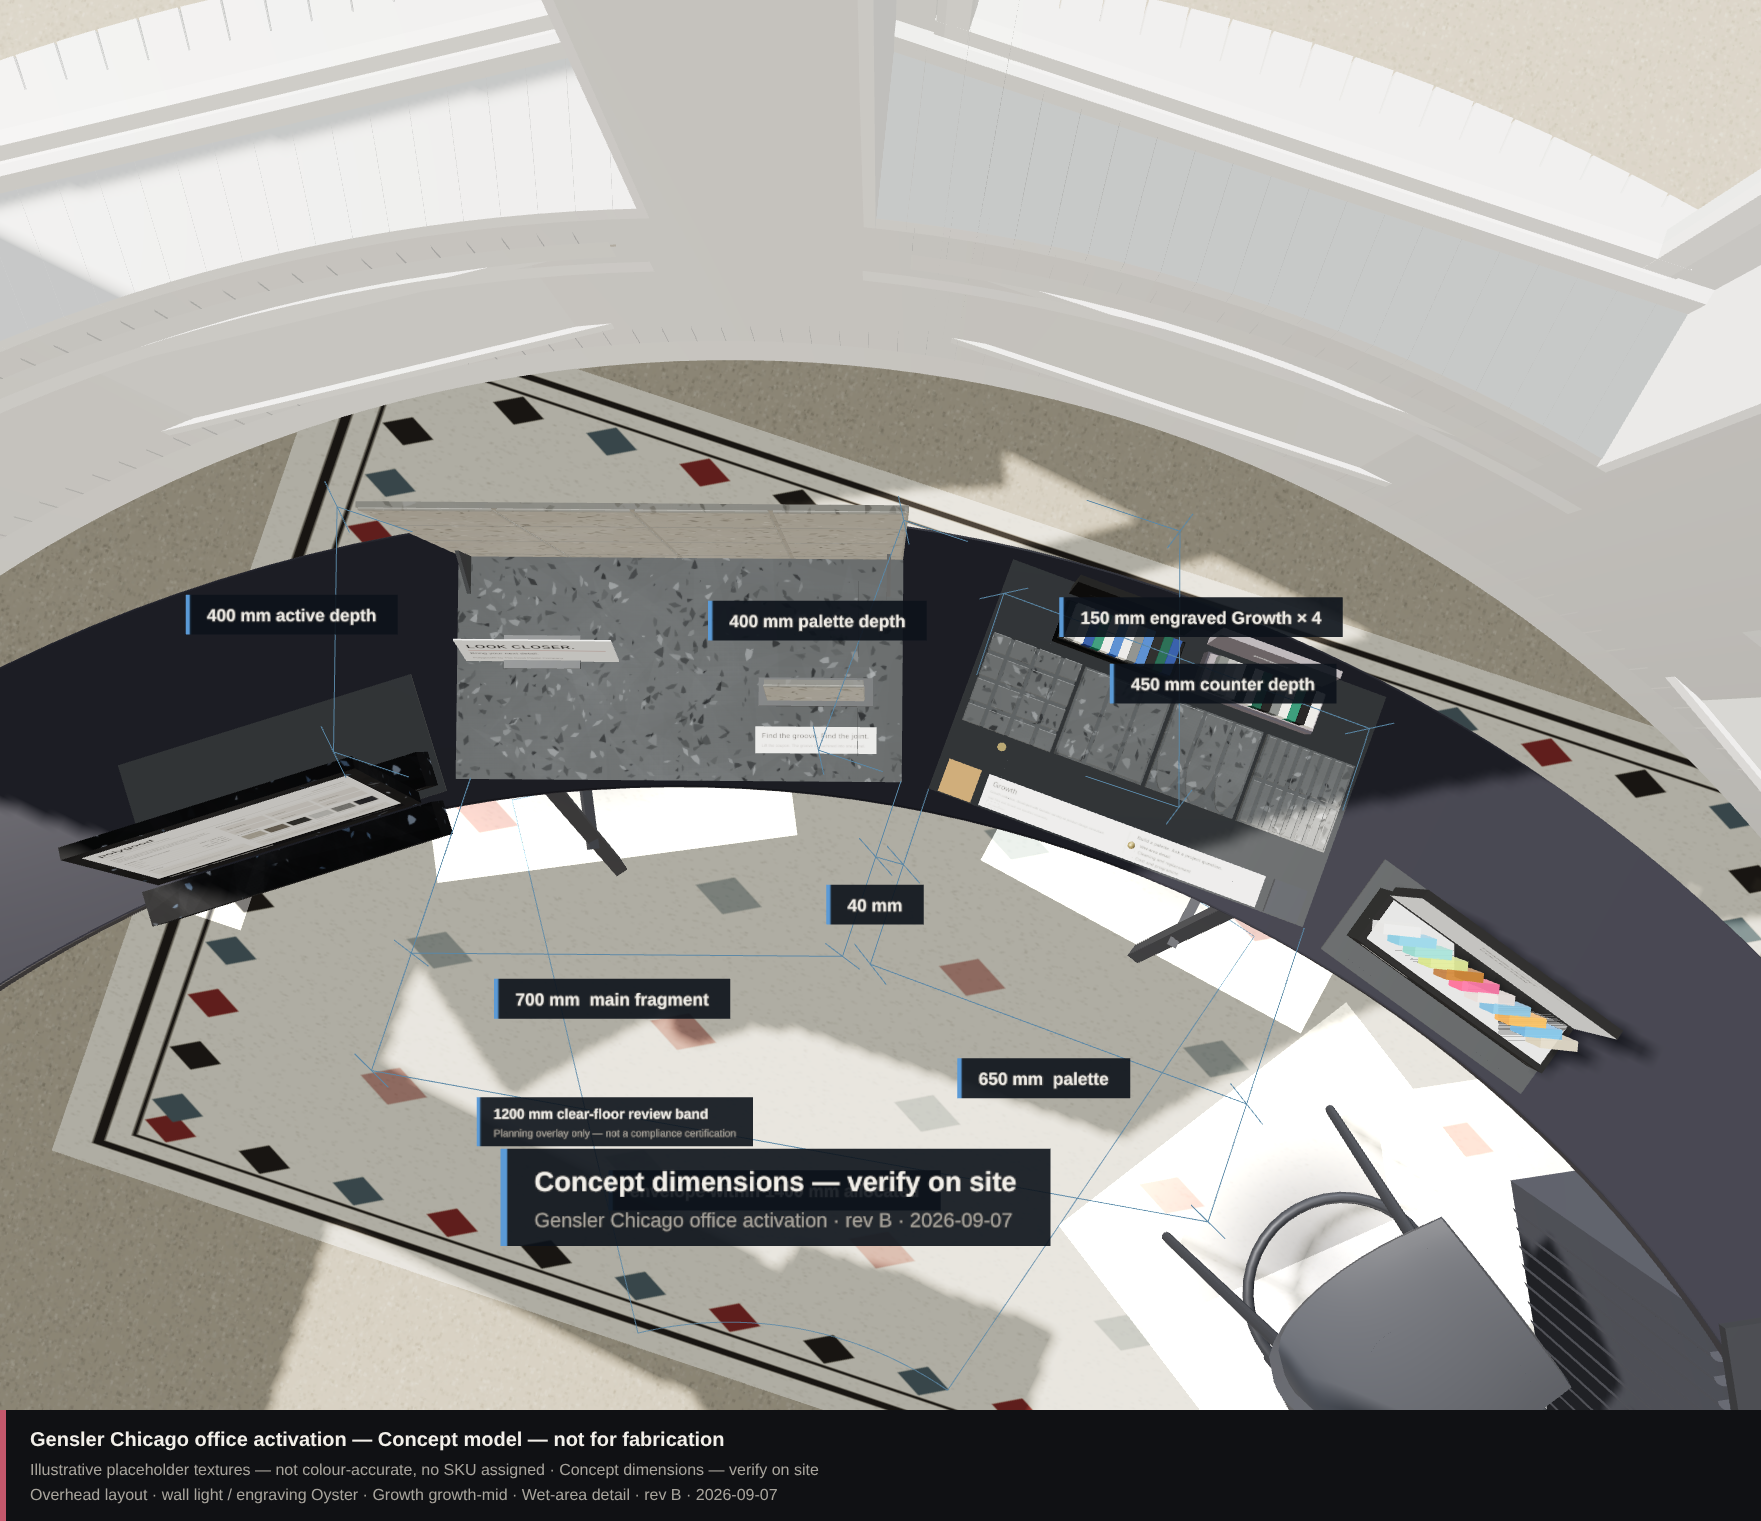
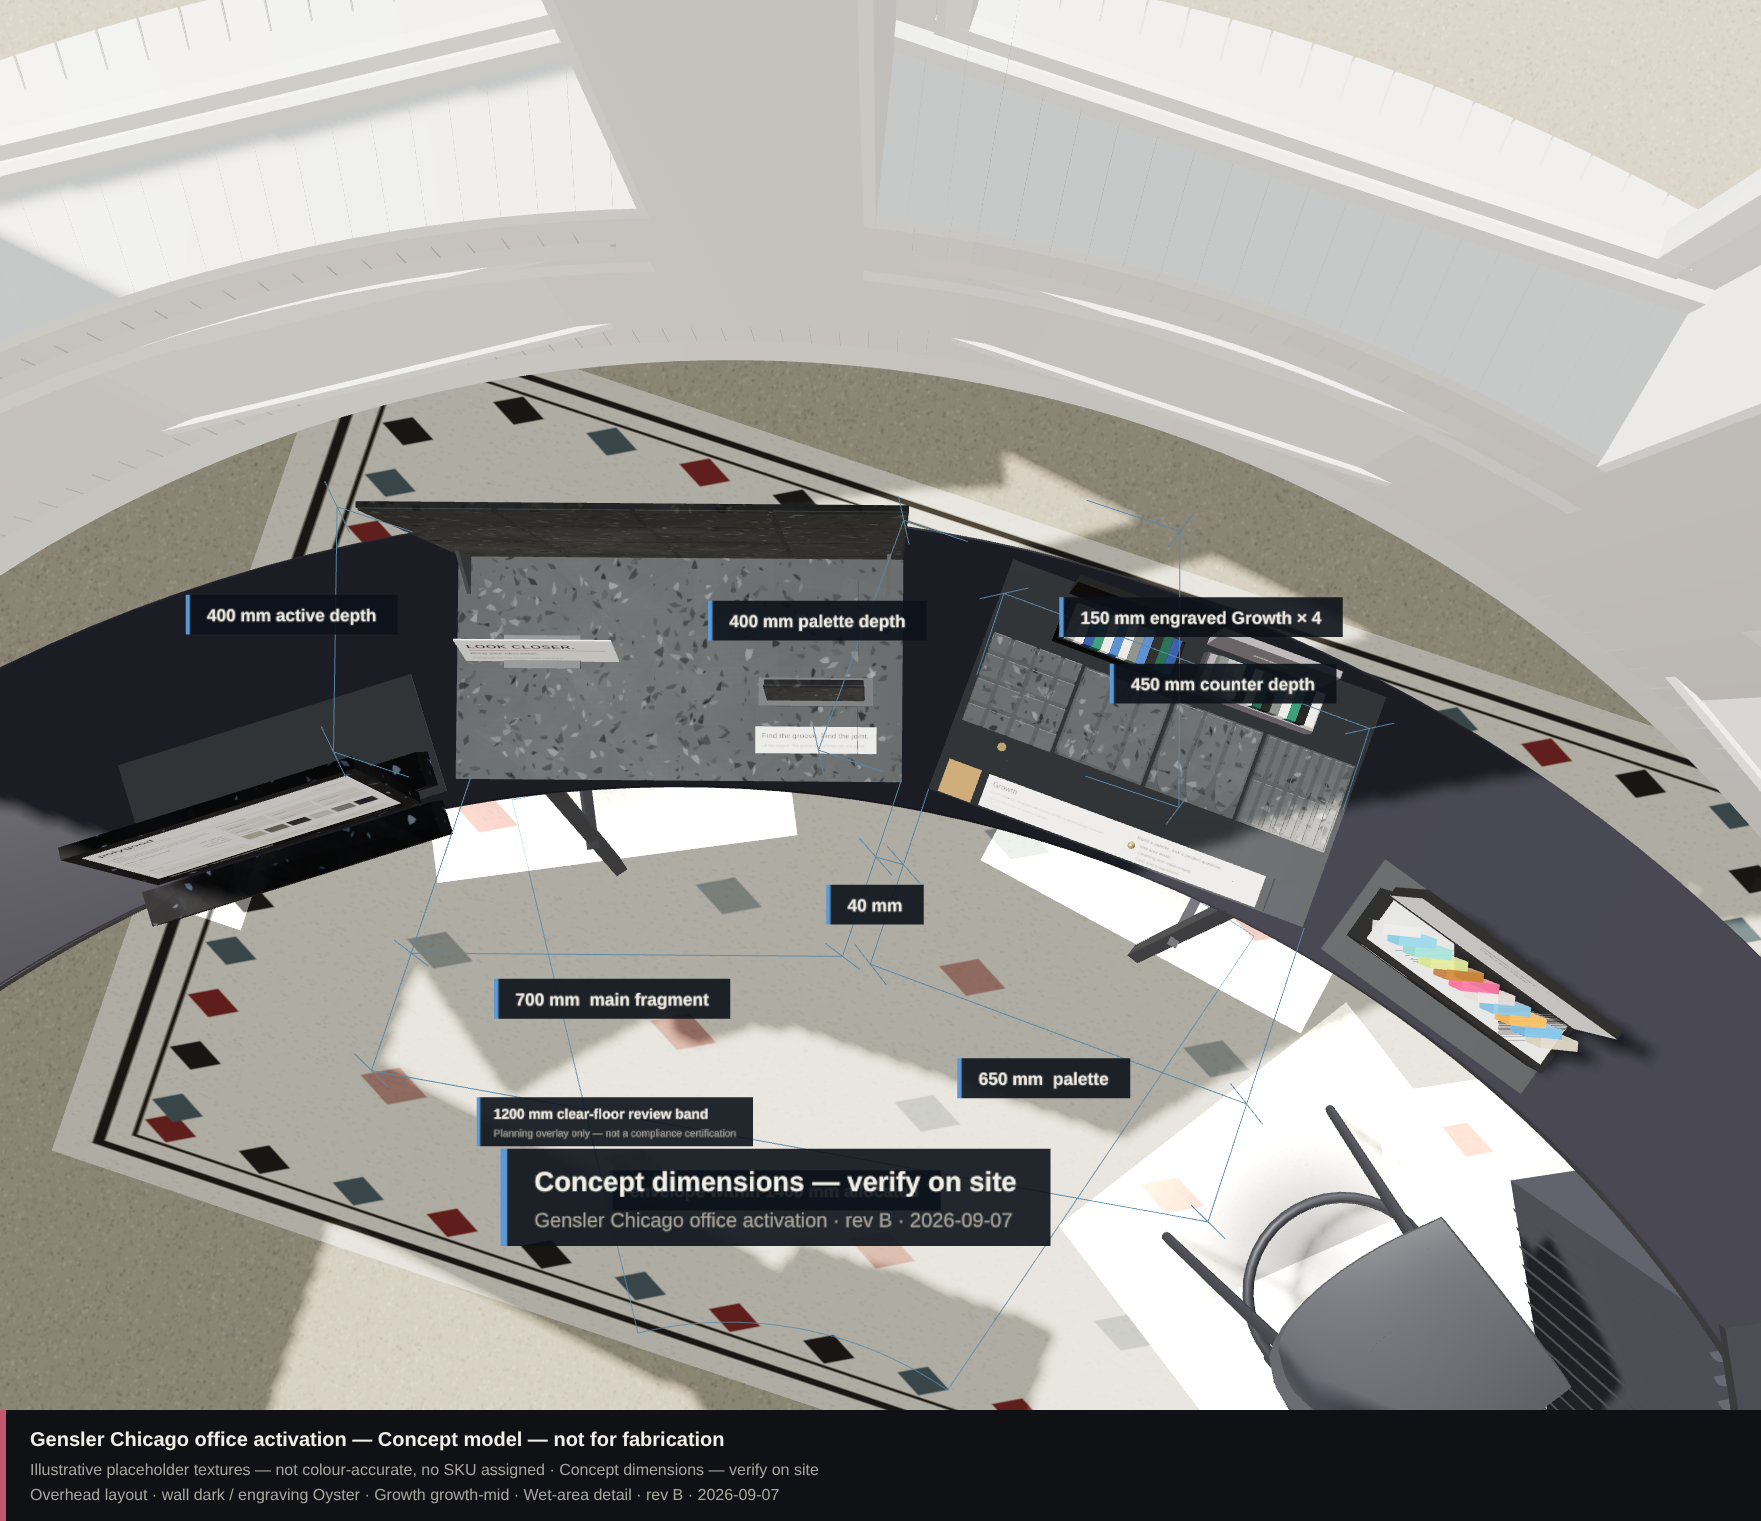
Open on the dark tile, and make the opening choice configurable
The tile controls are unchanged and stay unchanged: wall tile, wall engraving
and Growth surface remain three independent selectors, every entry in
wallColours / engravings / growthSurfaces is still a button, and picking one
still re-materialises the panel and the coupon live. There is still no "match
the wall" shortcut, because same-pattern availability is not confirmed. The
orientation stand's own surface stays in its own list (standSurfaces) so it
does not turn up among the tile choices.

What changed is only which choice is selected when the model opens.

- config.js: a `defaults` block — wall, growth, engraving, question and view.
  It opens on the dark tile and the room-approach vantage. null falls back to
  the first entry in the list; an id that no longer exists falls back the same
  way rather than failing.
- installation.js: the opening selection is read through startId() instead of
  being hard-coded to list[0].
- app.js: the opening vantage is looked up by key, defaulting to the first.

One fix alongside it: the question marker was placed at index 0 on load rather
than from state, so it would have pointed at the wrong question the moment the
opening question was not the first one. It now follows state.

Stills regenerated on the new default; README documents both the tile controls
and the defaults block.

Claude-Session: https://claude.ai/code/session_01RrtzjYnURxMGb191qk9yjN

Changed region(s): [[0.1874, 0.309, 0.5309, 0.3708], [0.1249, 0.9579, 0.4373, 0.9888], [0.4373, 0.4326, 0.4997, 0.4635]]

diff --git a/spaces/gensler-chicago-activation/dist/index.html b/spaces/gensler-chicago-activation/dist/index.html
@@ -374,6 +374,20 @@ window.PG_CONFIG = {
 
      A groove is machined into ONE continuous panel. These are engravings, not
      an assembly of loose tiles, and not grout.                              */
+  /* ── what the model OPENS on ───────────────────────────────────────────
+     This sets the STARTING selection only. Every wall tile, every Growth
+     surface and every engraving below stays selectable in the panel — the
+     three choices remain independent, and nothing here removes a control.
+     Set any of these to null to fall back to the first entry in its list. */
+  defaults: {
+    wall:      'dark',          // wallColours id — the dark tile
+    growth:    'growth-light',  // growthSurfaces id
+    engraving: null,            // engravings id
+    question:  null,            // questions id
+    view:      'approach'       // vantage key: approach | eye | detail | overhead |
+                                // palette | translucent | orientation | logistics
+  },
+
   engravingReferenceSheet: 300,   // assumed sheet size the proportions came from
   engravings: [
     { id: 'oyster',     name: 'Oyster',     ref: '01', shape: 'rect',    cellW: 43,   cellH: 43  },
@@ -2404,11 +2418,17 @@ var transBox = (function () {
    Wall colour, wall engraving and Growth surface are three INDEPENDENT
    choices. There is deliberately no "match the wall" control: same-pattern
    availability is not confirmed.                                            */
+var DEF = CFG.defaults || {};
+/* the opening selection only — every entry in every list stays selectable */
+function startId(list, wanted) {
+  var hit = list.find(function (x) { return x.id === wanted; });
+  return (hit || list[0]).id;
+}
 var state = {
-  wall: CFG.wallColours[0].id,
-  engraving: CFG.engravings[0].id,
-  growth: CFG.growthSurfaces[0].id,
-  question: CFG.questions[0].id
+  wall: startId(CFG.wallColours, DEF.wall),
+  engraving: startId(CFG.engravings, DEF.engraving),
+  growth: startId(CFG.growthSurfaces, DEF.growth),
+  question: startId(CFG.questions, DEF.question)
 };
 
 function setWall(id) {
@@ -2436,7 +2456,9 @@ function setQuestion(id) {
   setQuestionMarker(CFG.questions.findIndex(function (q) { return q.id === id; }));
   ctx.invalidate();
 }
-setWall(state.wall); setGrowth(state.growth); setEngraving(state.engraving); setQuestionMarker(0);
+/* the marker followed index 0 rather than the state, which only matched
+   while the opening question was the first one */
+setWall(state.wall); setGrowth(state.growth); setEngraving(state.engraving); setQuestion(state.question);
 
 /* ── inspect: only the coupon moves ───────────────────────────────────── */
 var inspectT = 0;
@@ -3339,7 +3361,8 @@ fitStage();
 
 applyFurniture();
 setLight('soft');
-goView(0, true);
+var startView = VIEWS.findIndex(function (v) { return v.key === (CFG.defaults || {}).view; });
+goView(startView < 0 ? 0 : startView, true);
 refreshStatus();
 refreshRecordLine();
 

diff --git a/spaces/gensler-chicago-activation/installation.js b/spaces/gensler-chicago-activation/installation.js
@@ -773,11 +773,17 @@ var transBox = (function () {
    Wall colour, wall engraving and Growth surface are three INDEPENDENT
    choices. There is deliberately no "match the wall" control: same-pattern
    availability is not confirmed.                                            */
+var DEF = CFG.defaults || {};
+/* the opening selection only — every entry in every list stays selectable */
+function startId(list, wanted) {
+  var hit = list.find(function (x) { return x.id === wanted; });
+  return (hit || list[0]).id;
+}
 var state = {
-  wall: CFG.wallColours[0].id,
-  engraving: CFG.engravings[0].id,
-  growth: CFG.growthSurfaces[0].id,
-  question: CFG.questions[0].id
+  wall: startId(CFG.wallColours, DEF.wall),
+  engraving: startId(CFG.engravings, DEF.engraving),
+  growth: startId(CFG.growthSurfaces, DEF.growth),
+  question: startId(CFG.questions, DEF.question)
 };
 
 function setWall(id) {
@@ -805,7 +811,9 @@ function setQuestion(id) {
   setQuestionMarker(CFG.questions.findIndex(function (q) { return q.id === id; }));
   ctx.invalidate();
 }
-setWall(state.wall); setGrowth(state.growth); setEngraving(state.engraving); setQuestionMarker(0);
+/* the marker followed index 0 rather than the state, which only matched
+   while the opening question was the first one */
+setWall(state.wall); setGrowth(state.growth); setEngraving(state.engraving); setQuestion(state.question);
 
 /* ── inspect: only the coupon moves ───────────────────────────────────── */
 var inspectT = 0;

diff --git a/spaces/gensler-chicago-activation/config.js b/spaces/gensler-chicago-activation/config.js
@@ -166,6 +166,20 @@ window.PG_CONFIG = {
 
      A groove is machined into ONE continuous panel. These are engravings, not
      an assembly of loose tiles, and not grout.                              */
+  /* ── what the model OPENS on ───────────────────────────────────────────
+     This sets the STARTING selection only. Every wall tile, every Growth
+     surface and every engraving below stays selectable in the panel — the
+     three choices remain independent, and nothing here removes a control.
+     Set any of these to null to fall back to the first entry in its list. */
+  defaults: {
+    wall:      'dark',          // wallColours id — the dark tile
+    growth:    'growth-light',  // growthSurfaces id
+    engraving: null,            // engravings id
+    question:  null,            // questions id
+    view:      'approach'       // vantage key: approach | eye | detail | overhead |
+                                // palette | translucent | orientation | logistics
+  },
+
   engravingReferenceSheet: 300,   // assumed sheet size the proportions came from
   engravings: [
     { id: 'oyster',     name: 'Oyster',     ref: '01', shape: 'rect',    cellW: 43,   cellH: 43  },

diff --git a/spaces/gensler-chicago-activation/app.js b/spaces/gensler-chicago-activation/app.js
@@ -525,7 +525,8 @@ fitStage();
 
 applyFurniture();
 setLight('soft');
-goView(0, true);
+var startView = VIEWS.findIndex(function (v) { return v.key === (CFG.defaults || {}).view; });
+goView(startView < 0 ? 0 : startView, true);
 refreshStatus();
 refreshRecordLine();
 

diff --git a/spaces/gensler-chicago-activation/README.md b/spaces/gensler-chicago-activation/README.md
@@ -50,6 +50,32 @@ Every control in the panel is a real button or checkbox and is keyboard
 operable. The panel is a review instrument — at the event the visitor is not
 expected to touch a screen.
 
+### Changing the tiles
+
+The three choices — **wall tile**, **wall engraving** and **Growth surface** —
+are independent and stay independent. Every entry in `wallColours`,
+`engravings` and `growthSurfaces` appears as a button, and picking one
+re-materialises the panel and the coupon live. There is deliberately no "match
+the wall" shortcut: same-pattern availability is not confirmed.
+
+Adding a surface to `config.js` adds a button. The stand's own surface lives in
+a separate list (`standSurfaces`) precisely so it does not turn up among the
+tile choices.
+
+### What it opens on
+
+`config.js` → `defaults` sets the **starting** selection and vantage only:
+
+```js
+defaults: { wall: 'dark', growth: 'growth-light',
+            engraving: null, question: null, view: 'approach' }
+```
+
+It opens on the dark tile because that is the combination under review. Nothing
+here removes a control — all three tiles, all three Growth surfaces and all four
+engravings remain selectable. `null` falls back to the first entry in the list,
+and an id that no longer exists falls back the same way rather than failing.
+
 ---
 
 ## Deploy
